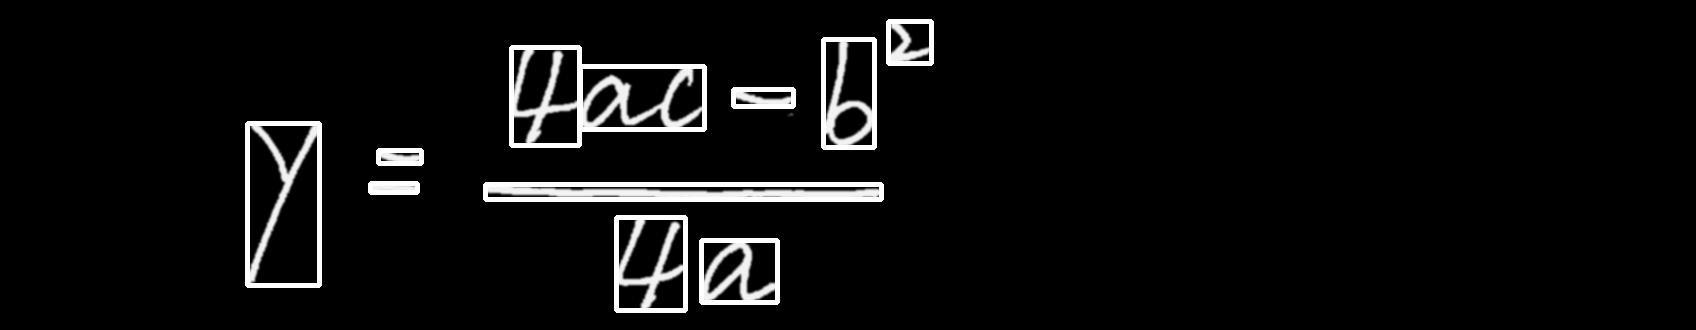
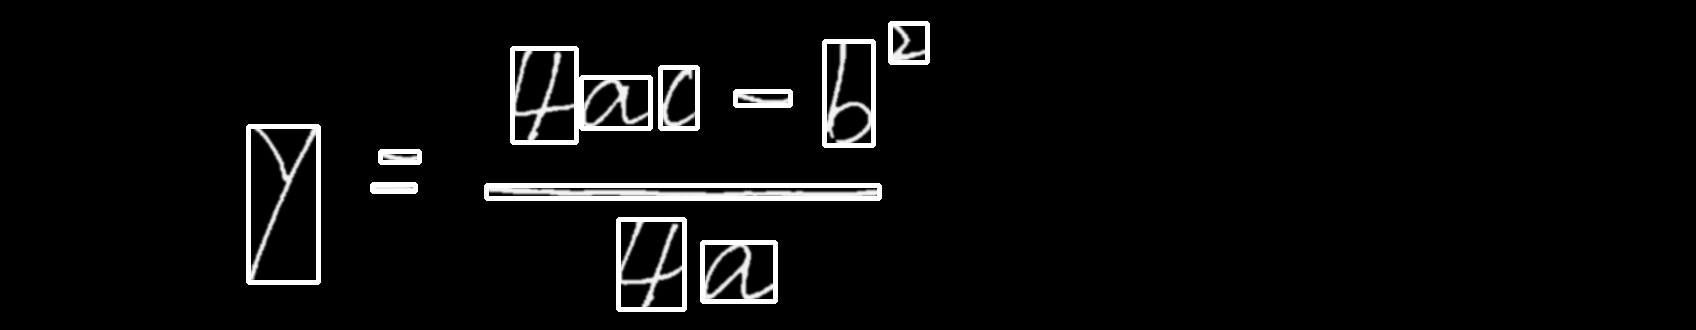
test erode

diff --git a/termproject/test_erode.py b/termproject/test_erode.py
@@ -1,0 +1,9 @@
+import cv2
+import numpy as np
+img = cv2.imread("test2.png", 0)
+
+#dilate
+kernel = np.ones((3,3),np.uint8)
+img = cv2.erode(img,kernel,iterations = 2)
+img = cv2.dilate(img, kernel, iterations=1)
+cv2.imwrite('test2out.png', img)

diff --git a/termproject/cvFindContour.py b/termproject/cvFindContour.py
@@ -1,6 +1,6 @@
 import cv2
 import numpy as np
-im_gray = cv2.imread("test2.png", 0)
+im_gray = cv2.imread("test2out.png", 0)
 
 # Convert to grayscale and apply Gaussian filtering
 im_gray = cv2.GaussianBlur(im_gray, (5, 5), 0)

diff --git a/termproject/keras_final32.py b/termproject/keras_final32.py
@@ -65,6 +65,7 @@ model.fit(x, y,
           batch_size=batch_size,
           epochs=epochs,
           verbose=1,
+          shuffle=True,
           validation_split=0.20)
 
 
